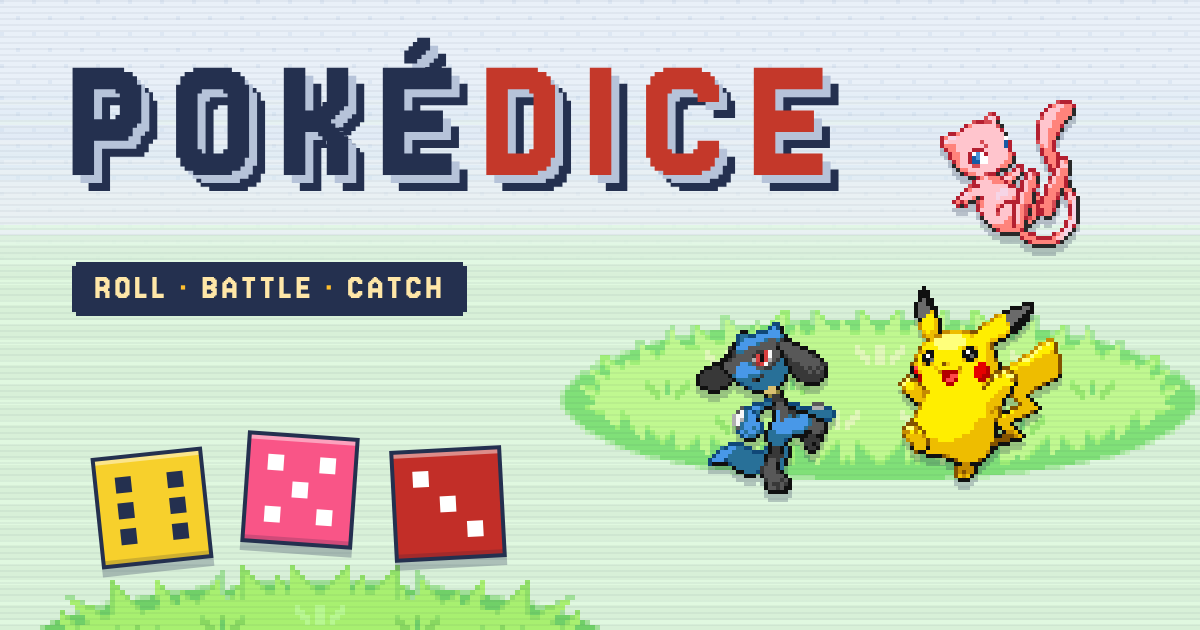
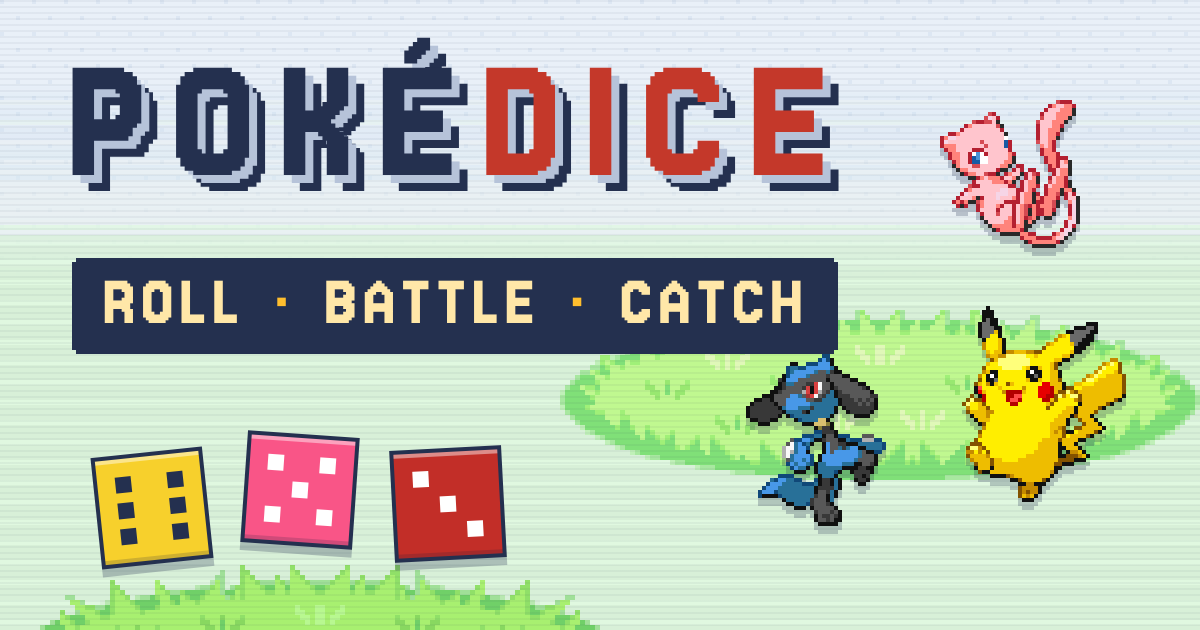
Link preview: ROLL · BATTLE · CATCH as wide as the title, Riolu and Pikachu moved to fit
Claude-Session: https://claude.ai/code/session_01HgNDVQC6rZ6proaZkBc9Mb

Changed region(s): [[0.0617, 0.3921, 0.9558, 0.8444]]

diff --git a/design/og-image/index.html b/design/og-image/index.html
@@ -74,13 +74,17 @@
       .chip {
         position: absolute;
         left: 72px;
-        top: 262px;
-        padding: 6px 22px 10px;
+        top: 258px;
+        /* As wide as the title above it. */
+        width: 766px;
+        display: flex;
+        justify-content: space-between;
+        padding: 6px 30px 14px;
         background: #24304f;
         color: #ffe7a8;
         font-family: 'Jersey 15', sans-serif;
-        font-size: 38px;
-        letter-spacing: 0.08em;
+        font-size: 76px;
+        letter-spacing: 0.06em;
         line-height: 1;
         /* Clipped pixel corners (.pixel-corners), at 4 px. */
         clip-path: polygon(
@@ -145,12 +149,12 @@
     <div class="scanlines"></div>
 
     <h1 class="title">POKÉ<span class="dice">DICE</span></h1>
-    <div class="chip">ROLL <b>·</b> BATTLE <b>·</b> CATCH</div>
+    <div class="chip"><span>ROLL</span><b>·</b><span>BATTLE</span><b>·</b><span>CATCH</span></div>
 
     <div class="dice-row" id="dice"></div>
 
-    <img class="mon" src="../../public/pokemon/447_front.png" style="left: 640px; top: 238px" alt="" />
-    <img class="mon" src="../../public/pokemon/025_front.png" style="left: 846px; top: 262px" alt="" />
+    <img class="mon" src="../../public/pokemon/447_front.png" style="left: 690px; top: 270px" alt="" />
+    <img class="mon" src="../../public/pokemon/025_front.png" style="left: 910px; top: 282px" alt="" />
     <img class="mon" src="../../public/pokemon/151_front.png" style="left: 880px; top: 44px" alt="" />
 
     <script>
